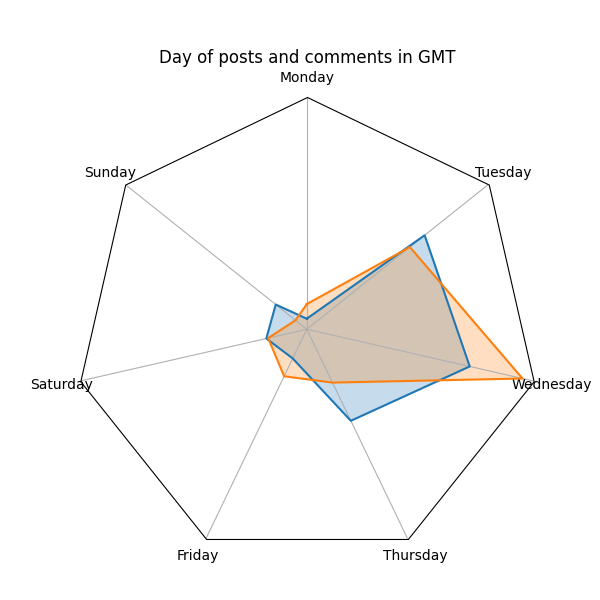
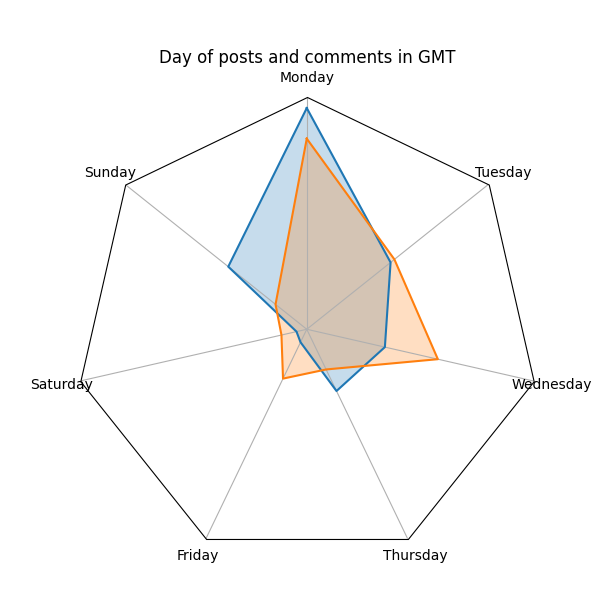
updated activity graphs

Changed region(s): [[0.36, 0.18, 0.87, 0.72]]

diff --git a/website/times.html b/website/times.html
@@ -42,7 +42,7 @@
                 <img src="../graphs/activity/time.png" style="float: left">
                 <img src="../graphs/activity/day.png" style="float: left, display:block">
             <p id="explanation">
-                Last analysis: From 20/10/2021 to 14/2/2021
+                Last analysis: From 10/3/2021 (Beginning) to 17/2/2021
                 <br>
                 Posts in blue, comments in orange
                 <br>
@@ -52,7 +52,11 @@
                 the data analysed is not from the beginning of The Confluence. Actually, far from it. I will update this every some
                 months or so (doesn't update automatically).
                 <br>
-                Note the increased activity during Tuesdays/Wednesdays, when new runs start and new members are added.
+                EDIT: I have worked around the issue of 1000 posts by looking for older ones through the profile pages
+                of users. Many of these accounts are deleted or suspended, so some posts are bound to be lost. But I believe
+                the great majority of posts have been found.
+                <br>
+                Note the increased activity during Tuesdays/Wednesdays (and earlier Sundays/Mondays), when new runs start and new members are added.
                 <br>
                 <br>
                 For reference, this is when midnight hits in some timezones (in GMT):

diff --git a/website/searchbyuser.html b/website/searchbyuser.html
@@ -61,9 +61,9 @@
             <label for="flairSlider" id="labelForFlairSlider">Max. lowest flair = </label>
             <div id="canvas"></div>
             <div id="timemachine">
-                Oldest comment: <a href="" id="oldestcomment"></a> <span id="commenterror"></span>
+                Oldest comment: <a href="" id="oldestcomment" target="_blank"></a> <span id="commenterror"></span>
                 <br>
-                Oldest post: <a href="" id="oldestpost"></a> <span id="posterror"></span>
+                Oldest post: <a href="" id="oldestpost" target="_blank"></a> <span id="posterror"></span>
             </div>
             <br>
             <hr>

diff --git a/graphs/activity/creategraphtime.py b/graphs/activity/creategraphtime.py
@@ -57,7 +57,8 @@ for fake_post in posts:
     postsday[tim] += 1
 
     totalposts += 1
-    print(totalposts)
+    print(totalposts/len(posts)*100)
+    print(post.title)
 
     comments = post.comments
     comments.replace_more(limit=None)
